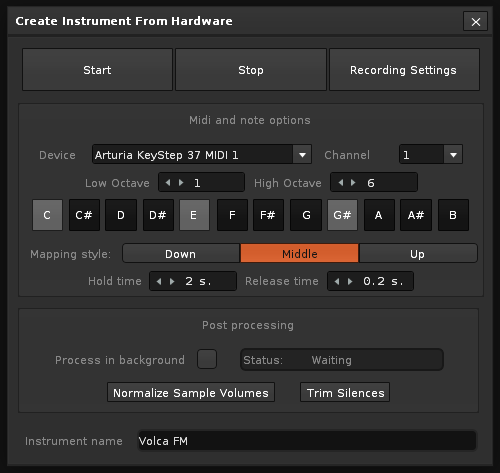
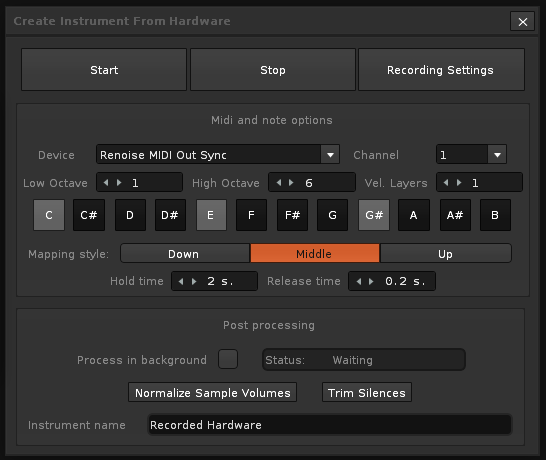
added ability to sample multiple notes cleaned up and organized some stuff

diff --git a/README.md b/README.md
@@ -59,6 +59,10 @@ The lowest octave to sample (inclusive). The octave settings correspond to the o
 
 The highest octave to sample (inclusive).
 
+##### Vel. Layers
+
+For each sampled note, record this many samples of equally spaced velocities.
+
 ##### Notes Matrix
 
 Select the notes you would like to sample in each of the selected octaves by clicking the note buttons. Dark gray means the note won't be sampled, and light gray means it will be sampled.
